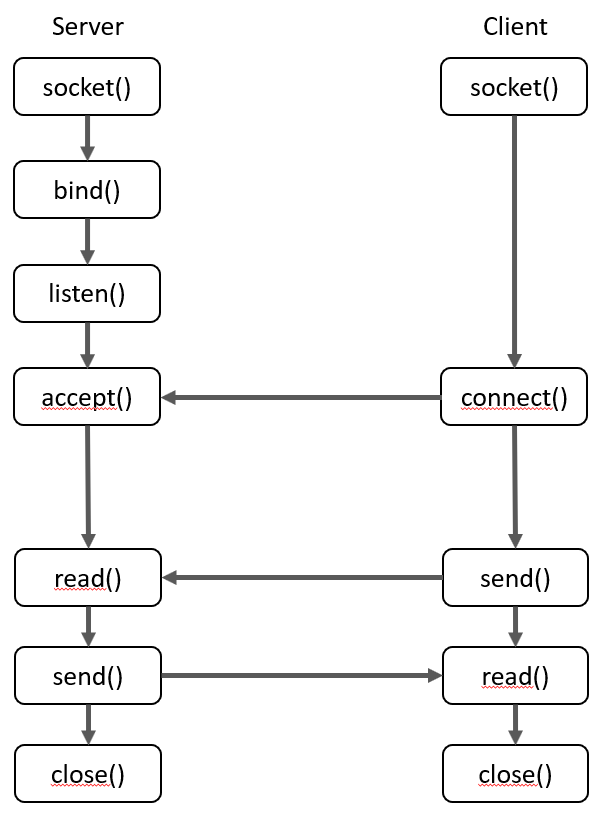
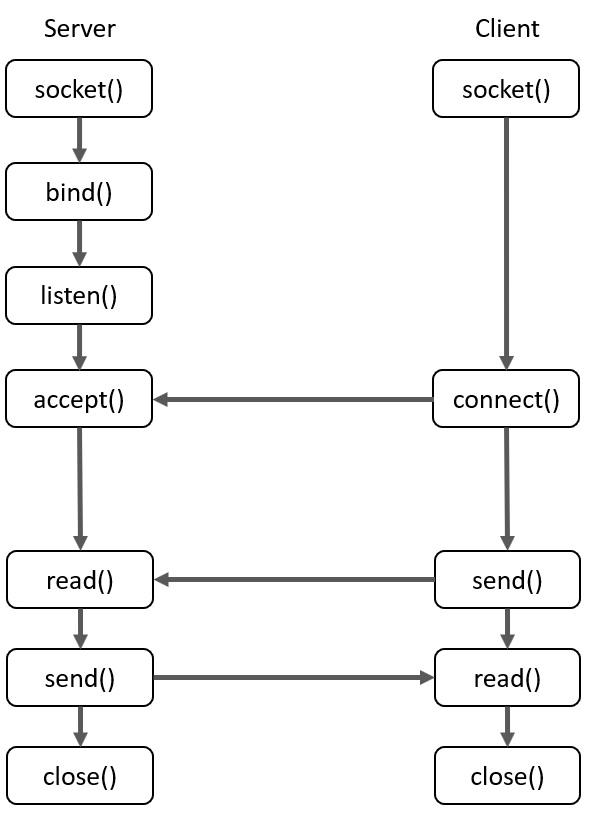
README updated

diff --git a/README.md b/README.md
@@ -6,7 +6,7 @@ A C++ implementation of a simple network [TCP](https://en.wikipedia.org/wiki/Tra
 
 
 <p align="center">
-	<img src="img/sockets.png">
+	<img src="img/sockets.png" width="400">
 </p>
 
 ## Requirements
@@ -16,9 +16,56 @@ GCC
 
 Linux environment
 
-## Example
+## Usage
 An example usage can be found in main.cpp
+
+```
+#include <iostream>
+#include <thread>
+#include "ServerSocket.h"
+#include "Socket.h"
+
+void handle(net::Socket* client) {
+	std::cout << "Client connected! fd: " << client->socketfd << std::endl;
+	while (true) {
+		std::string msg;
+		if (client->read(msg) <= 0) {
+			break;
+		}
+		std::cout << "Client " << client->socketfd << " said: " << msg;
+	}
+	delete client;
+	std::cout << "Client " << client->socketfd << " disconnected" << std::endl;
+}
+
+
+int main(int argc, char **argv) {
+	net::ServerSocket* server = new net::ServerSocket("127.0.0.1", 8080, 1);
+
+	int err = server->listen();
+	if (err != 0) {
+		std::cout << strerror(err) << std::endl;
+		exit(err);
+	}
+
+	std::thread server_thread([&server](){
+		while (true) {
+			std::cout << "Waiting for a client.." << std::endl;
+			net::Socket* client = server->accept();
+			if (!client->valid()) {
+				delete client;
+				continue;
+			}
+			std::thread* t_read = new std::thread(handle, client);
+		}
+	});
+	server_thread.join();
+
+	delete server;
+	return 0;
+}
+```
 
 ---
 
-Credit for the blueprint to [davidsteinsland](https://github.com/davidsteinsland) 
+Credit to [davidsteinsland](https://github.com/davidsteinsland) for the blueprint
